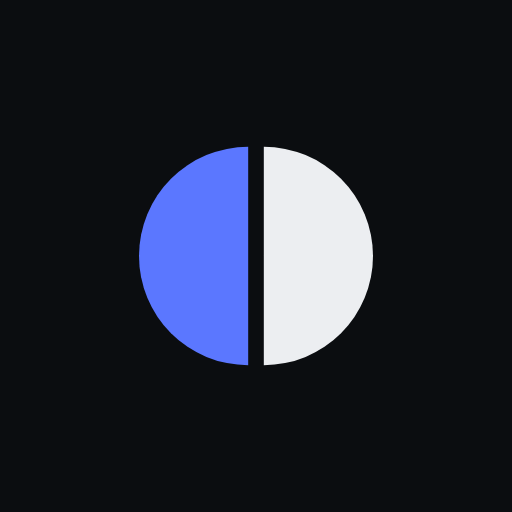
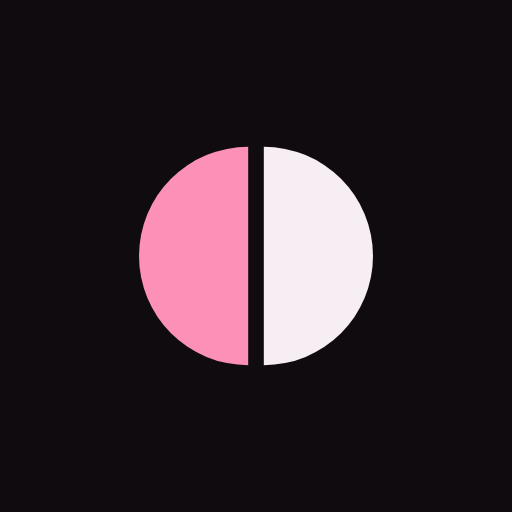
Back to pink brand on plum-tinted neutrals; rolling balance figure; empty strip; flat compare list
Claude-Session: https://claude.ai/code/session_01CqLhd3xXcwZxZJuapVZJj2

Changed region(s): [[0.25, 0.2812, 0.5, 0.7188]]

diff --git a/src/styles/tokens.css b/src/styles/tokens.css
@@ -1,7 +1,8 @@
 /* Sistema de diseño, sexta versión: Reparto.
 
-   Poppins en todo, con el peso y el tamaño haciendo la jerarquía. Grises
-   fríos de una sola familia, un acento (cobalto) para lo activo y el foco,
+   Poppins en todo, con el peso y el tamaño haciendo la jerarquía. Neutros
+   con tinte ciruela de una sola familia y el rosa de marca para lo activo, el foco
+   y el tramo más grande de la franja,
    y plata que se lee por color y por signo: verde entra, rojo sale, nunca
    solo. La firma es la franja de reparto: el mes entero partido en lo que se
    fue a cada categoría.
@@ -10,51 +11,51 @@
 :root{
   color-scheme:dark;
 
-  --brand:        #5B77FF;
-  --brand-strong: #7C93FF;
-  --on-brand:     #0B0D10;
+  --brand:        #FC90B6;
+  --brand-strong: #FF7AA8;
+  --on-brand:     #1A0E14;
 
-  --primary:      #ECEEF1;
+  --primary:      #F6EEF2;
   --primary-hover:#FFFFFF;
-  --on-primary:   #0B0D10;
+  --on-primary:   #100B0E;
 
-  --bg:           #0B0D10;
-  --surface:      #12151A;
-  --surface-2:    #181C22;
-  --surface-3:    #20252C;
-  --border:       #1E232A;
-  --border-strong:#2C333C;
-  --text:         #ECEEF1;
-  --text-2:       #A4ABB5;
-  --text-3:       #8A929D;
-  --hairline:     inset 0 1px 0 rgba(255,255,255,.05);
+  --bg:           #100B0E;
+  --surface:      #181116;
+  --surface-2:    #1F161C;
+  --surface-3:    #291E25;
+  --border:       #2B2027;
+  --border-strong:#3D2E37;
+  --text:         #F6EEF2;
+  --text-2:       #BBA9B3;
+  --text-3:       #9C8A94;
+  --hairline:     inset 0 1px 0 rgba(255,235,245,.05);
 
-  --accent-text:  #93A6FF;
-  --accent-soft:  rgba(91,119,255,.12);
-  --accent-line:  rgba(124,147,255,.36);
+  --accent-text:  #FFA8C7;
+  --accent-soft:  rgba(252,144,182,.12);
+  --accent-line:  rgba(252,144,182,.38);
 
   /* el saldo vive sobre el fondo, sin tarjeta */
   --hero-bg:      transparent;
-  --hero-text:    #ECEEF1;
-  --hero-text-2:  #A4ABB5;
-  --hero-line:    #1E232A;
-  --hero-pos:     #3DD6A0;
-  --hero-neg:     #FF7D74;
+  --hero-text:    #F6EEF2;
+  --hero-text-2:  #BBA9B3;
+  --hero-line:    #2B2027;
+  --hero-pos:     #5FD7A8;
+  --hero-neg:     #FF7A66;
 
-  --pos:          #3DD6A0;
-  --pos-fill:     #1FB886;
-  --pos-soft:     #0E1D18;
-  --pos-line:     #1B4A39;
-  --neg:          #FF7D74;
-  --neg-fill:     #E5483F;
-  --neg-soft:     #25120F;
-  --neg-line:     #55241F;
+  --pos:          #5FD7A8;
+  --pos-fill:     #2FB886;
+  --pos-soft:     #0F1E18;
+  --pos-line:     #1E4A39;
+  --neg:          #FF7A66;
+  --neg-fill:     #E5533F;
+  --neg-soft:     #2A130F;
+  --neg-line:     #5A271E;
 
   --warn:         #F2B04A;
-  --focus:        #93A6FF;
-  --scrim:        rgba(4,6,9,.72);
-  --glass:        rgba(11,13,16,.80);
-  --seg-on:       #262C35;
+  --focus:        #FFA8C7;
+  --scrim:        rgba(8,4,6,.72);
+  --glass:        rgba(16,11,14,.80);
+  --seg-on:       #33262E;
 
   --font-sans: 'Poppins', ui-sans-serif, system-ui, -apple-system, 'Segoe UI', Roboto, sans-serif;
   --font-display: var(--font-sans);
@@ -83,7 +84,7 @@
   --z-nav:30; --z-modal:80; --z-toast:90;
 
   /* las cuatro primeras categorías, para la muestra de la entrada */
-  --cat-1:#5B77FF; --cat-2:#2DB5A3; --cat-3:#F2B04A; --cat-4:#E5604F;
+  --cat-1:#FC90B6; --cat-2:#7C8CFF; --cat-3:#F5B25A; --cat-4:#3FC7B0;
 
   --tabbar-h:64px;
   --sidebar-w:248px;
@@ -91,42 +92,42 @@
 
 :root[data-theme=light]{
   color-scheme:light;
-  --brand:        #3550E8;
-  --brand-strong: #2640D0;
-  --on-brand:     #FFFFFF;
-  --primary:      #0E1116;
+  --brand:        #E5528A;
+  --brand-strong: #D43B77;
+  --on-brand:     #1E1319;
+  --primary:      #1E1319;
   --primary-hover:#000000;
   --on-primary:   #FFFFFF;
-  --bg:           #F1F3F6;
+  --bg:           #FBF3F6;
   --surface:      #FFFFFF;
-  --surface-2:    #F6F7F9;
-  --surface-3:    #E9ECF1;
-  --border:       #E1E5EB;
-  --border-strong:#CBD1DA;
-  --text:         #0E1116;
-  --text-2:       #4A525E;
-  --text-3:       #626B78;
+  --surface-2:    #F6EAEF;
+  --surface-3:    #EEDDE5;
+  --border:       #EBDDE3;
+  --border-strong:#D8C3CD;
+  --text:         #1E1319;
+  --text-2:       #5C4A54;
+  --text-3:       #75626C;
   --hairline:     inset 0 1px 0 rgba(255,255,255,.9);
-  --accent-text:  #2A44D4;
-  --accent-soft:  rgba(53,80,232,.09);
-  --accent-line:  rgba(53,80,232,.38);
-  --hero-text:    #0E1116;
-  --hero-text-2:  #4A525E;
-  --hero-line:    #E1E5EB;
-  --hero-pos:     #0B7A55;
-  --hero-neg:     #C7372F;
-  --pos:          #0B7A55;
-  --pos-fill:     #17A074;
-  --pos-soft:     #E6F5EE;
-  --pos-line:     #B3DDC9;
-  --neg:          #C7372F;
-  --neg-fill:     #E0473D;
-  --neg-soft:     #FCEAE8;
-  --neg-line:     #F2BDB8;
-  --warn:         #96600A;
-  --focus:        #2A44D4;
-  --scrim:        rgba(14,17,22,.45);
-  --glass:        rgba(241,243,246,.86);
+  --accent-text:  #B3175A;
+  --accent-soft:  rgba(229,82,138,.10);
+  --accent-line:  rgba(229,82,138,.40);
+  --hero-text:    #1E1319;
+  --hero-text-2:  #5C4A54;
+  --hero-line:    #EBDDE3;
+  --hero-pos:     #0F7A55;
+  --hero-neg:     #C13A25;
+  --pos:          #0F7A55;
+  --pos-fill:     #1AA070;
+  --pos-soft:     #E6F4EC;
+  --pos-line:     #B3DCC6;
+  --neg:          #C13A25;
+  --neg-fill:     #DC4A33;
+  --neg-soft:     #FCE9E4;
+  --neg-line:     #F0BDB1;
+  --warn:         #8A5A0B;
+  --focus:        #B3175A;
+  --scrim:        rgba(30,19,25,.45);
+  --glass:        rgba(251,243,246,.86);
   --seg-on:       #FFFFFF;
-  --shadow-lg:    0 24px 56px rgba(20,30,60,.18);
+  --shadow-lg:    0 24px 56px rgba(60,20,40,.16);
 }

diff --git a/src/ui/mes.js b/src/ui/mes.js
@@ -64,7 +64,27 @@ function abrirArranque(per, repintar) {
   cuerpo.querySelector('#arrMonto').focus();
 }
 
+/* El saldo rueda de la cifra que tenías a la nueva cuando cambia (otro mes,
+   un movimiento guardado): así se ve cuánto se movió. 450 ms, ease-out, y
+   nada con "reducir movimiento". La primera pintada no rueda. */
+let cifraPrevia = null;
+function rodarCifra(root) {
+  const el = root.querySelector('.hero-monto[data-v]');
+  if (!el) return;
+  const a = cifraPrevia; const z = Number(el.dataset.v);
+  cifraPrevia = z;
+  if (a === null || a === z || matchMedia('(prefers-reduced-motion:reduce)').matches) return;
+  const t0 = performance.now();
+  const paso = (t) => {
+    const k = Math.min(1, (t - t0) / 450);
+    el.textContent = moneySigno(Math.round(a + (z - a) * (1 - (1 - k) ** 3)));
+    if (k < 1 && el.isConnected) requestAnimationFrame(paso);
+  };
+  requestAnimationFrame(paso);
+}
+
 export function enlazarMes(root, repintar) {
+  rodarCifra(root);
   root.querySelectorAll('[data-mes]').forEach((b) => {
     b.onclick = () => { periodo = sumarMeses(periodo, Number(b.dataset.mes)); repintar(); };
   });
@@ -83,7 +103,7 @@ export function cabeceraMes(p, per = periodo, { compacta = false } = {}) {
   return `<section class="hero ${compacta ? 'hero-compacta' : ''}" aria-label="Saldo del mes">
     <div class="hero-main">
       <span class="hero-label">${per < periodoActual() ? 'Terminaste con' : 'Terminas con'}</span>
-      <b class="hero-monto num ${clase(r.final)}">${moneySigno(r.final)}</b>
+      <b class="hero-monto num ${clase(r.final)}" data-v="${r.final}">${moneySigno(r.final)}</b>
     </div>
     ${compacta ? '' : franjaHTML(p, per, r)}
     <dl class="hero-cuenta">
@@ -104,7 +124,8 @@ export function cabeceraMes(p, per = periodo, { compacta = false } = {}) {
 function franjaHTML(p, per, r) {
   const segs = segmentosPorCategoria(p.cats, gastoPorCategoria(p.movs, per));
   const f = franjaReparto(segs, r.ingresos);
-  if (!f) return '';
+  if (!f) return `<div class="reparto reparto-vacio" aria-hidden="true"><i class="libre" style="--w:100;--k:0"></i></div>
+  <p class="reparto-pie">Aquí se reparte el mes cuando registres un ingreso y un gasto.</p>`;
   const tramos = [...f.partes, ...(f.libre ? [{ nombre: 'Libre', monto: f.libre.monto, pct: f.libre.pct, libre: true }] : [])];
   const resumen = tramos.map((t) => `${t.nombre} ${money(t.monto)}`).join(', ');
   const leyenda = f.partes.slice(0, 3).concat(f.libre ? [{ nombre: 'Libre', monto: f.libre.monto, libre: true }] : []);

diff --git a/src/styles/components.css b/src/styles/components.css
@@ -20,7 +20,7 @@
 .navlink-ic{display:flex;align-items:center;justify-content:center;width:56px;height:28px;border-radius:var(--radius-sm)}
 .navlink-txt{max-width:100%;padding:0 1px;overflow:hidden;text-overflow:ellipsis;white-space:nowrap}
 .navlink-corto{display:none}
-@media (max-width:359px){.navlink-largo{display:none}.navlink-corto{display:inline}}
+@media (max-width:429px){.navlink-largo{display:none}.navlink-corto{display:inline}}
 @media (hover:hover) and (pointer:fine){.navlink:hover{color:var(--text)}}
 .navlink[aria-current=page]{color:var(--text)}
 .navlink[aria-current=page] .navlink-ic{color:var(--accent-text);background:var(--accent-soft);border-radius:var(--radius-pill)}
@@ -91,6 +91,7 @@
 .reparto-ley li i{width:8px;height:8px;border-radius:3px;flex:none}
 .reparto-ley li.libre i{box-shadow:inset 0 0 0 1px var(--text-3)}
 .reparto-ley b{font-weight:var(--fw-semibold);color:var(--text)}
+.reparto-pie{margin:0;font-size:var(--text-xs);color:var(--text-3)}
 .reparto-aviso{margin:var(--space-3) 0 0;font-size:var(--text-xs);color:var(--neg)}
 
 .hero-cuenta{display:flex;flex-direction:column;margin:var(--space-6) 0 0;border-top:1px solid var(--border)}
@@ -528,7 +529,7 @@ input[type=range]:focus{box-shadow:none}
 .cmp-claves li{line-height:1.45}
 .cmp-claves svg{display:inline-block;vertical-align:-2px;width:15px;height:15px;margin-right:6px}
 .cmp-claves b{color:var(--text)}
-.cmp-lista{list-style:none;margin:0;padding:var(--space-2) var(--space-4);background:var(--surface);border:1px solid var(--border);border-radius:var(--radius-lg)}
+.cmp-lista{list-style:none;margin:0;padding:0;border-top:1px solid var(--border-strong)}
 .cmp{padding:var(--space-3) 0}
 .cmp+.cmp{border-top:1px solid var(--border)}
 .cmp-top{display:flex;align-items:center;gap:var(--space-2);font-size:15px}

diff --git a/src/ui/icons.js b/src/ui/icons.js
@@ -81,9 +81,9 @@ export function mountIconSprite() {
 // El logo de la app: una moneda partida en dos, el reparto. Va a color, no sale del sprite.
 export function logo(cls = 'logo') {
   return `<svg class="${cls}" viewBox="0 0 512 512" aria-hidden="true">
-    <rect width="512" height="512" rx="112" fill="#0B0D10"/>
-    <path d="M246 116a140 140 0 0 0 0 280z" fill="#5B77FF"/>
-    <path d="M266 116a140 140 0 0 1 0 280z" fill="#ECEEF1"/></svg>`;
+    <rect width="512" height="512" rx="112" fill="#100B0E"/>
+    <path d="M246 116a140 140 0 0 0 0 280z" fill="#FC90B6"/>
+    <path d="M266 116a140 140 0 0 1 0 280z" fill="#F6EEF2"/></svg>`;
 }
 
 // Icono de navegación: relleno si es la pestaña activa y existe su versión -on.

diff --git a/src/engine/categorias.js b/src/engine/categorias.js
@@ -9,8 +9,8 @@
 export const OTROS = 'otros';
 export const OTROS_ING = 'otros-ingreso';
 
-export const COLORES = ['#5B77FF', '#2DB5A3', '#F2B04A', '#E5604F', '#9B7BE8',
-  '#7FBF5A', '#E58BB0', '#4AA3DF', '#C98B3A', '#8A92A0', '#D1587A'];
+export const COLORES = ['#FC90B6', '#7C8CFF', '#F5B25A', '#3FC7B0', '#B28CFF',
+  '#FF7A66', '#8CCB6B', '#58B4F0', '#E0709A', '#C9A2B5', '#D4A24E', '#6FD1C8'];
 
 // Las de fábrica, en el orden en que se muestran.
 export const BASE_GASTO = ['Vivienda', 'Servicios', 'Mercado', 'Comida fuera', 'Transporte',

diff --git a/src/ui/tema.js b/src/ui/tema.js
@@ -11,7 +11,7 @@ export function tema() {
 export function aplicar(t = tema()) {
   const claro = t === 'claro' || (t === 'sistema' && !matchMedia('(prefers-color-scheme: dark)').matches);
   document.documentElement.dataset.theme = claro ? 'light' : 'dark';
-  document.querySelector('meta[name=theme-color]')?.setAttribute('content', claro ? '#F1F3F6' : '#0B0D10');
+  document.querySelector('meta[name=theme-color]')?.setAttribute('content', claro ? '#FBF3F6' : '#100B0E');
 }
 
 export function elegir(t) {

diff --git a/index.html b/index.html
@@ -4,7 +4,7 @@
 <meta charset="utf-8">
 <meta name="viewport" content="width=device-width, initial-scale=1, viewport-fit=cover">
 <meta name="color-scheme" content="dark light">
-<meta name="theme-color" content="#0B0D10">
+<meta name="theme-color" content="#100B0E">
 <meta name="apple-mobile-web-app-capable" content="yes">
 <meta name="mobile-web-app-capable" content="yes">
 <meta name="apple-mobile-web-app-title" content="Reparto">

diff --git a/src/engine/persona.js b/src/engine/persona.js
@@ -4,7 +4,7 @@
 
 import { nombreMes } from '../format.js';
 
-export const COLORES_AVATAR = ['#5B77FF', '#2DB5A3', '#F2B04A', '#E5604F', '#9B7BE8', '#7FBF5A', '#E58BB0', '#8A92A0'];
+export const COLORES_AVATAR = ['#FC90B6', '#7C8CFF', '#F5B25A', '#3FC7B0', '#B28CFF', '#FF7A66', '#8CCB6B', '#C9A2B5'];
 
 export function normalizarPersona(x) {
   const color = Number(x?.color);
